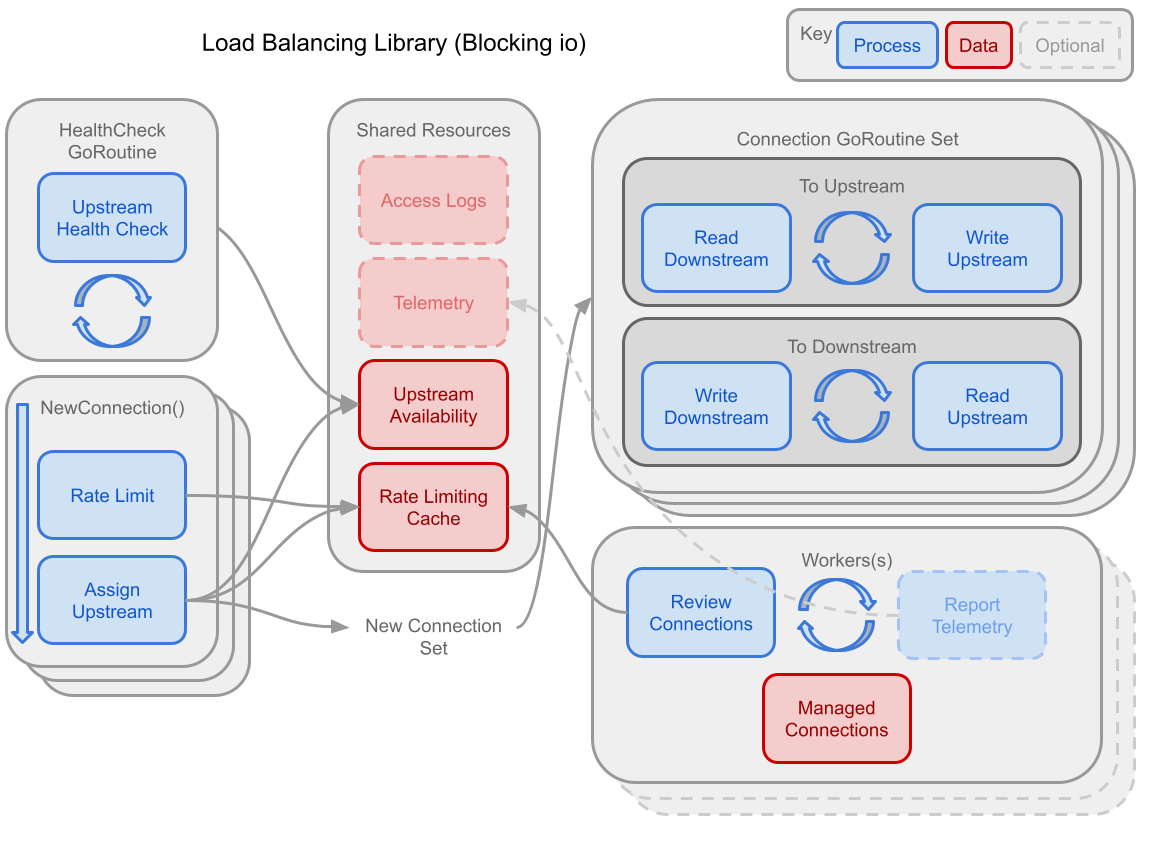
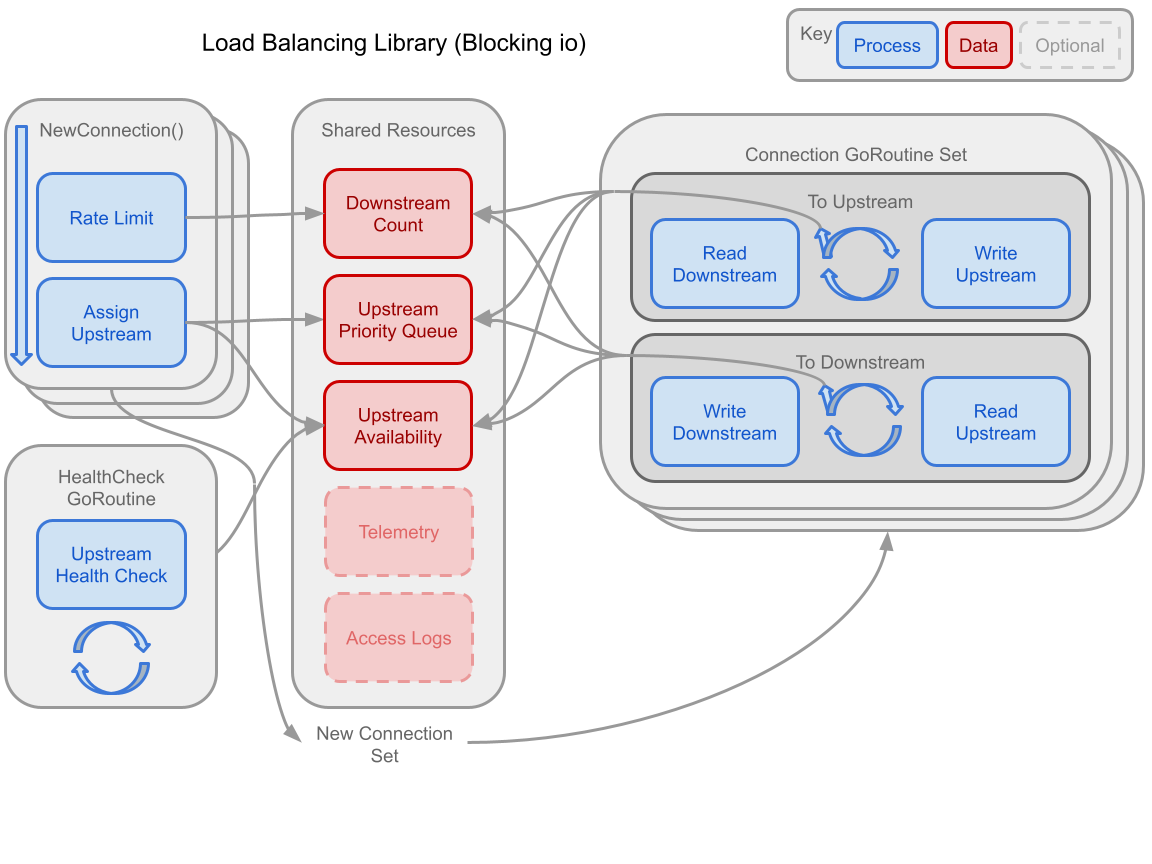
clarify RFD 0000 and change strategy for tracking connections

diff --git a/rfd/0000-tcp-load-balancer.md b/rfd/0000-tcp-load-balancer.md
@@ -46,29 +46,23 @@ For further details see [Authentication & mTLS](###Authentication-&-mTLS)
 
 ## Implementation - Library
 ### Rate Limiting
-Rate Limiting is performed for both downstreams and upstreams. It will leverage a sliding window algorithm to count requests and deny requests that exceed the limits. A KV-store supporting TTL will hold the request counts. Ideally it would also support LFU eviction (protecting the LB from OOM) and concurrent access (preventing bottle-necking/contention on the shared KV-store).
+Rate Limiting is performed for downstreams based on a count of existing connections. The count will be incremented by opening connections and decremented by closing ones. It will be critical that all possible forms of connections ending will decrement the counter, otherwise clients will be rate limited unnecessarily.
 
-#### Sliding Window as A Connection Counter
-Keys in the cache will be a tuple (ClientID|ServerID, WindowStartTime). Each time a new connection is made or a worker reviews an existing connection, the relevant key will have its value incremented. 
-```go
-    // Get Connections for a client or server
-    previousKey := makeKey(ID, PreviousWindowStartTime)
-    currentKey := makeKey(ID, CurrentWindowStartTime)
-    previousWindowsConnections := cache.Access(previousKey)
-    currentWindowsConnections := cache.Access(currentKey)
-    durationSinceCurrentWindow := time.Now().Sub(CurrentWindowStartTime)
-    connections := currentWindowsConnections + previousWindowsConnections * durationSinceCurrentWindow / windowDuration
-```
+### Load Balancing
+Load balancing is preformed for healthy upstreams. When a new connection is started, a priority queue will be used to pull the upstream with the least connections. The priority queue will be implemented with a golang heap with order based on the number of existing connections to an upstream. Unhealthy upstreams will be removed if they are first in the queue, and the next upstream will be checked.
 
 ### Health Checking
 Health checking is both passive and active. Upstreams are healthy only after succeeding a routine (+ jitter) health check. Upstreams become unhealthy and thus unavailable after either failing a health check, timing out, or returning a connection error. Configuration for the number of retries and length of time outs to an upstream may be configurable at server startup, determined at implementation.
 
- A connection will choose the upstream that has the least existing connections based on the sliding windows supported by the rate limiting.
-
-
 ### API
 
 ```go
+// NewLoadBalancer takes configuration values and creates a LoadBalancer with it
+// Config could include rate limits, upstreams, timeouts, etc.
+func NewLoadBalancer(cfg Config) ImplementedLoadBalancer {
+    ...
+}
+
 type LoadBalancer interface {
     // Start spins up management goroutines for the LoadBalancer
     // error is nil only when LoadBalancer configuration is functional
@@ -80,24 +74,6 @@ type LoadBalancer interface {
     // error is nil only when all connections close gracefully
     // otherwise, error offers insight into why the connections couldn't close gracefully.
     Stop(ctx context.Context) error
-
-    // SetRateLimit allows a rate limit to be set for a single client
-    // connections is the max number of connections allowed over a single window.
-    // Because of the sliding window algorithm which will be used for rate limits,
-    // there may appear to be more or less connections allowed. 
-    // This error will be minimal and averaged over time because.
-    // connections over the previous window will be treated as
-    // evenly distributed over that window to estimate 
-    // how many connections were received in portion of the window
-    SetRateLimit(clientID string, connections int, window time.Time) error
-
-    // AddUpstream adds configuration for an Upstream
-    // if the upstreamGroup does not already exist, it will be created.
-    AddUpstream(upstreamGroup string, config Upstream) error
-
-    // RemoveUpstream was added, anticipating future needs. 
-    // on second review, it won't be necessary for the scope of this challenge
-    // RemoveUpstream(upstreamGroup string, config Upstream) error
 
     // Handle is the primary use of LoadBalancer
     // Handle requires that LoadBalancer.Start(ctx) error has been called
@@ -122,7 +98,7 @@ type Upstream interface {
     ID() string // possibly changed to a typed uuid
 
     // Provides necessary information to call net.DialTCP()
-	TCPAddr() net.TCPAddr
+    TCPAddr() net.TCPAddr
     // Healthy returns weather or not the upstream is healthy
     // and can be passed new connections.
     Healthy() bool
@@ -130,7 +106,7 @@ type Upstream interface {
 
 // UpstreamGroups is used to look up upstreams
 // Data is purely illustrative
-var UpstreamGroups map[string][]Upstream = map[string][]Upstream{
+var UpstreamGroups = map[string][]Upstream{
     "UIServers" : []Upstream{
         ...
     },
@@ -145,7 +121,7 @@ var UpstreamGroups map[string][]Upstream = map[string][]Upstream{
 
 
 ### Internals
-Leverage goroutines to build a “concurrent-first” design. This is a typical solution for golang and follows language paradigms, treating goroutines as lightweight tools for handling blocking operations. Two goroutines will be spun up for each connection and will call blocking reads for each end. When reads return, any data will be written to the other side. If one connection is closed, the other will be closed as well. This will likely require some carful handling of contexts at the least. A worker routine(s) will keep track of existing connections and routinely report existing connections to the rate limiting cache. This will enable tracking client connections for rate limiting and tracking server connections for load balancing.
+Leverage goroutines to build a “concurrent-first” design. This is a typical solution for golang and follows language paradigms, treating goroutines as lightweight tools for handling blocking operations. Two goroutines will be spun up for each connection and will call blocking reads for each end. When reads return, any data will be written to the other side. If one connection is closed, the other will be closed as well. A worker routine(s) will keep track of existing connections and routinely report existing connections to the rate limiting cache. This will enable tracking client connections for rate limiting and tracking server connections for load balancing.
 
 ![](0000-tcp-load-balancer/library-blocking-io.png)
 
@@ -156,7 +132,7 @@ This design, though non-traditional for industry standard load balancers, lets u
 ## Implementation - Server
 
 ### CLI UX
-A strait forward CLI will be offered, and will start the server based on hard coded configurations. The process will listen for signals and stop accordingly. If the process is sent a signal to exit, it will attempt to close gracefully. If it does successfully, it will return 0. Otherwise, it will return 1, the catchall for general errors. It may be worth differentiating between a failed start and a failed graceful exit, but for now, we'll leverage STDOUT and/or STDERR to inform the user what happened.
+A straight forward CLI will be offered, and will start the server based on hard coded configurations. The process will listen for signals and stop accordingly. If the process is sent a signal to exit, it will attempt to close gracefully. If it does successfully, it will return 0. Otherwise, it will return 1, the catchall for general errors. It may be worth differentiating between a failed start and a failed graceful exit, but for now, we'll leverage STDOUT and/or STDERR to inform the user what happened.
 
 ```go 
 // Hardcoded values used for CLI
@@ -188,14 +164,15 @@ Certificates should typically be signed by a certificate authority, for the purp
 
 
 ### Authorization
-The server will authorize new connections based on a simple scheme defining upstreamGroups and clients which are allowed to access them. It will be whitelist only. Clients will be identified by either the subject of the certificate, or just the CN (common name) from the subject. (chosen during implementation)
+The server will authorize new connections based on a simple scheme defining upstreamGroups and clients which are allowed to access them. It will be whitelist only. Clients will be identified by either the subject of the certificate, or just the CN (common name) from the subject. (chosen during implementation) By leveraging SNI, a TLS extension, A client's upstream will be chosen based on the server listed in client hello message.
 
 ```go
 // ClientWhitelist is an explicit map of clientIDs to 
-// available upstreamGroups
-var c map[string][]string = map[string][]string{
+// available upstreamGroups (either the subject of the certificate,
+// or just the CN (common name) from the subject)
+var ClientWhitelist = map[string][]string{
     "FreeTrialClient": []string{
-        "UIServers",s
+        "UIServers",
     },
     "StandardClient": []string{
         "UIServers",
